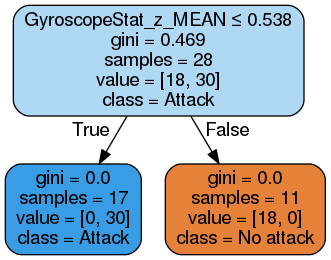
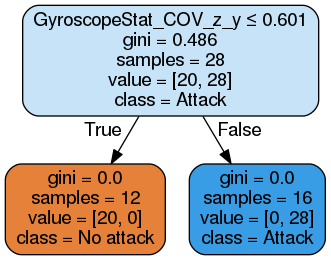
Milestone 3 forense comprobation

diff --git a/milestone3/6_decision_tree.py b/milestone3/6_decision_tree.py
@@ -12,6 +12,7 @@ from sklearn.externals.six import StringIO
 from IPython.display import Image  
 from sklearn.tree import export_graphviz
 import pydotplus
+import routes as r
 
 #Pienso que tendras que guardar las etiquetas otra vez como haciamos antes :_)
 path_mergered     = "data/data_merged.csv"
@@ -23,6 +24,33 @@ def read_dataset(path):
 
 def to_csv(path,dataframe):
     np.savetxt(path, dataframe, delimiter=",")
+
+def cross_validations_aux(dataframe):
+  cv = KFold(n_splits = 10, shuffle = False)
+  accuracies = list()
+  max_attributes = len(list(dataframe))
+  depth_range = range(1, max_attributes * 2)
+    
+  for depth in depth_range:
+      fold_accuracy = []
+      tree_model = tree.DecisionTreeClassifier(criterion='entropy', 
+                                               min_samples_split = 65, 
+                                               min_samples_leaf = 20,
+                                               max_depth = depth,
+                                               class_weight={0:3.28}
+                                              )
+      for train_fold, test_fold in cv.split(dataframe):
+          f_train = dataframe.loc[train_fold]
+          f_test = dataframe.loc[test_fold]
+          
+          model = tree_model.fit( X = f_train.drop(['attack'], axis=1), 
+                                 y = f_train['attack'])
+          test_acc = model.score(X = f_test.drop(['attack'], axis=1), 
+                                  y = f_test['attack'])
+          fold_accuracy.append(test_acc)
+          
+      avg = sum(fold_accuracy)/len(fold_accuracy)
+      accuracies.append(avg)
 
 def cross_validations(dataframe, tree_model):
     cv = KFold(n_splits = 10, shuffle=False)
@@ -52,7 +80,6 @@ def cross_validations(dataframe, tree_model):
 
 
 def decision_tree(train, test):
-  
     features  = train.columns[:13]
     x_train   = train[features]
     y_train   = train['attack']
@@ -62,9 +89,7 @@ def decision_tree(train, test):
     
     X, y      = x_train, y_train
   
-    clf = tree.DecisionTreeClassifier(criterion='entropy',
-                                  min_samples_leaf = 20, max_depth = 4,
-                                  class_weight={0:3.28})
+    clf = tree.DecisionTreeClassifier(criterion='entropy')
     
     clf.fit(X, y)
 
@@ -94,22 +119,52 @@ def decision_tree(train, test):
                     special_characters=True, class_names = ['No attack','Attack'])
   
     graph = pydotplus.graph_from_dot_data(dot_data.getvalue())  
-    Image(graph.create_png())
+    graph.write_png('trees/decision_birch.png')
         
     return clf,graph
+
+def production_simulation(clf_rf, dataset_prueba):
+    dataset_prod = pd.concat([dataset_prueba, test])
+    dataset_prod = dataset_prod.sample(frac=1)
+  
+    features  = dataset_prod.columns[:13]
+    x_test    = dataset_prod[features]
+    y_test    = dataset_prod['attack']
+  
+    preds_rf = clf_rf.predict(x_test) # Test del modelo
     
+#    report(random_search.cv_results_)    
+    
+    print("Random Forest: \n" 
+          +classification_report(y_true=y_test, y_pred=preds_rf))
+    
+    # Matriz de confusión
+    
+    print("Matriz de confusión:\n")
+    matriz = pd.crosstab(dataset_prod['attack'], preds_rf, rownames=['actual'], colnames=['preds'])
+    print(matriz)
+    
+    # Variables relevantes
+    
+    print("Relevancia de variables:\n")
+    print(pd.DataFrame({'Indicador': features ,
+                  'Relevancia': clf_rf.feature_importances_}),"\n")
+    print("Máxima relevancia RF :" , max(clf_rf.feature_importances_), "\n")
+
 if __name__ == '__main__':
    
-  train = read_dataset(path_train)
-  test  = read_dataset(path_test)
+  train       = read_dataset(r.path_train)
+  test        = read_dataset(r.path_test)
+  df_prod     = read_dataset(r.path_prod_sample)
   
 #  train.drop(train.columns[[0,1]], axis=1, inplace=True)
 #  test.drop(test.columns[[0,1]], axis=1, inplace=True)
   
-  decision_moriarty_tree, graph = decision_tree(train, test)
+  decision_birch, graph = decision_tree(train, test)
+  production_simulation(decision_birch, df_prod)
    
-#  data_merged = read_dataset(r.path_merged_data)
-#  cross_validations(data_merged, decision_moriarty_tree)
+  data_merged = read_dataset(r.path_merged_data)
+#  cross_validations_aux(df_prod)
    
    
    

diff --git a/milestone3/5_random_forest.py b/milestone3/5_random_forest.py
@@ -44,6 +44,7 @@ def random_forest(train, test):
     x_train   = train[features]
     y_train   = train['attack']
     
+    
     x_test    = test[features]
     y_test    = test['attack']
     
@@ -93,9 +94,41 @@ def random_forest(train, test):
                       special_characters=True, class_names = ['No attack','Attack'])
       (graph,) = pydot.graph_from_dot_file('tree_from_forest.dot')
       graph.write_png('trees/tree_from_forest_birch_{}.png'.format(birch))
+    
+    return clf_rf
+  
+def production_simulation(clf_rf, dataset_prueba):
+    dataset_prod = pd.concat([dataset_prueba, test])
+    dataset_prod = dataset_prod.sample(frac=1)
+  
+    features  = dataset_prod.columns[:13]
+    x_test    = dataset_prod[features]
+    y_test    = dataset_prod['attack']
+  
+    preds_rf = clf_rf.predict(x_test) # Test del modelo
+    
+#    report(random_search.cv_results_)    
+    
+    print("Random Forest: \n" 
+          +classification_report(y_true=y_test, y_pred=preds_rf))
+    
+    # Matriz de confusión
+    
+    print("Matriz de confusión:\n")
+    matriz = pd.crosstab(dataset_prod['attack'], preds_rf, rownames=['actual'], colnames=['preds'])
+    print(matriz)
+    
+    # Variables relevantes
+    
+    print("Relevancia de variables:\n")
+    print(pd.DataFrame({'Indicador': features ,
+                  'Relevancia': clf_rf.feature_importances_}),"\n")
+    print("Máxima relevancia RF :" , max(clf_rf.feature_importances_), "\n")
       
 if __name__ == '__main__':
-    train = read_dataset(r.path_train)
-    test  = read_dataset(r.path_test)
+    train       = read_dataset(r.path_train)
+    test        = read_dataset(r.path_test)
+    df_prod     = read_dataset(r.path_prod_sample)
         
-    random_forest(train, test)
+    random_birch = random_forest(train, test)
+    production_simulation(random_birch, df_prod)

diff --git a/milestone3/4_build_model.py b/milestone3/4_build_model.py
@@ -28,6 +28,16 @@ def divide_datasets(df_merged):
 
 def to_csv(path,dataframe):
     np.savetxt(path, dataframe, delimiter=",")
+
+def make_production_sample(dataset):
+    # Mezclamos y requetemezclamos
+    df_divide = dataset.sample(frac=1)
+    
+    # 1/3 for test  2/3 for train
+    p = 0.04
+    df_production = df_divide[:int((len(df_divide))*p)]
+    
+    return df_production  
     
 if __name__ == '__main__':
     df1           = read_dataset(r.path_norm_attacks)
@@ -35,9 +45,14 @@ if __name__ == '__main__':
     
     df2           = read_dataset(r.path_norm_centroids)
     df2['0'] = 0
-        
+    
+    prod_sample       = read_dataset(r.path_norm_no_attacks)
+    prod_sample       = make_production_sample(prod_sample)
+    prod_sample['0']  = 0
+    
     to_csv(r.path_processed_attacks, df1)
     to_csv(r.path_processed_no_attacks, df2)
+    to_csv(r.path_prod_aux, prod_sample)
 
     merge_datasets(r.path_processed_attacks, r.path_processed_no_attacks)
     df_merged = read_dataset(r.path_merged_data)
@@ -50,6 +65,6 @@ if __name__ == '__main__':
     
     add_columns_names(r.path_train_aux, r.path_train)
     add_columns_names(r.path_test_aux, r.path_test)
-    
+    add_columns_names(r.path_prod_aux, r.path_prod_sample)
     
     

diff --git a/milestone3/routes.py b/milestone3/routes.py
@@ -17,6 +17,8 @@ path_plot           = "plots/"
 path_norm_centroids = "data/data_no_attacks_centroids.csv"
 
 # 5 build_model #
+path_prod_aux                 = "data/prod_sample_aux.csv"
+path_prod_sample              = "data/prod_sample.csv"
 path_processed_no_attacks     = "data/data_attacks_definitive.csv"
 path_processed_attacks        = "data/data_no_attacks_definitive.csv"
 path_merged_data              = "data/data_merged.csv"
@@ -25,7 +27,9 @@ path_test_aux                 = "model/data_test_aux.csv"
 path_train                    = "model/data_train.csv"
 path_test                     = "model/data_test.csv"
 
+
 # 6 random_forest # 
+
 
 
 

diff --git a/milestone3/3_clustering_data.py b/milestone3/3_clustering_data.py
@@ -83,7 +83,6 @@ def to_csv(path,dataframe):
 if __name__ == '__main__':
     
     df            = read_dataset(r.path_norm_no_attacks)
-#    df.drop(df.columns[[17]], axis=1, inplace=True)
 
     X_pca                   = calculatePCA(df)
     df_centroids            = clustering(df, X_pca)
